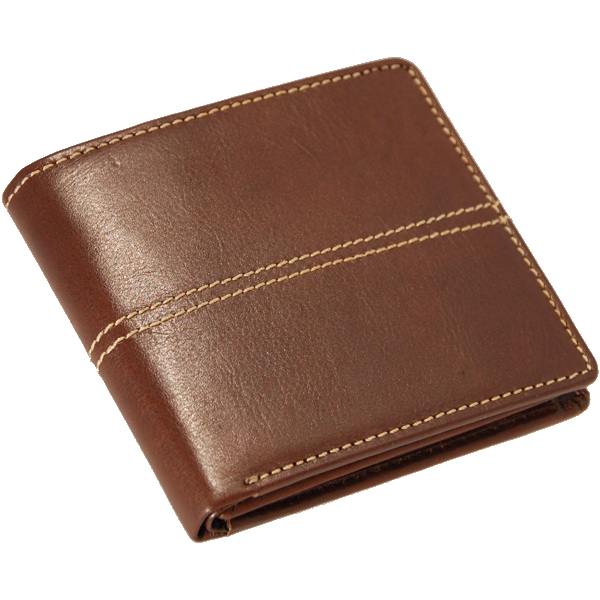
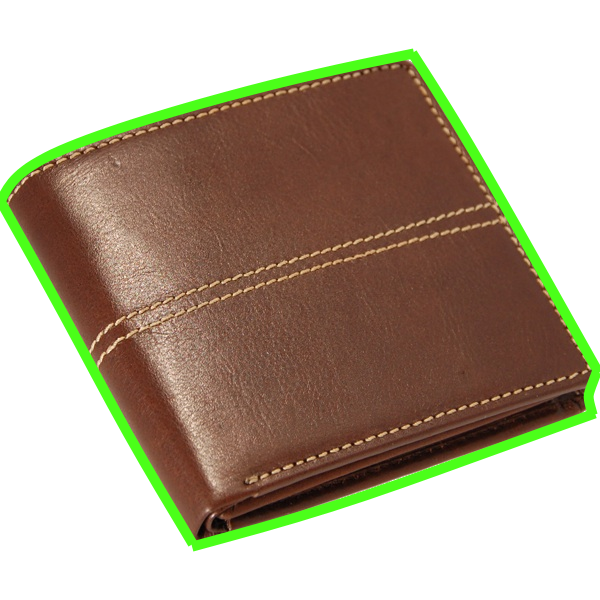
Latest Version (FULLY WORKING)
Collab edit version update with updated wallet.png and lamborghini is
purchasable

Changed region(s): [[0.0, 0.06, 1.0, 0.93]]

diff --git a/Vending.html b/Vending.html
@@ -63,6 +63,10 @@
     h1 {
         color:lime;
 }
+    span {
+        color:lime;
+        font-size: 2%;
+}
     </style>
     <head>
        <meta charset="utf-8"/>
@@ -81,6 +85,11 @@
              stock[2] = 8;
              //solo stock
              stock[3] = 8;
+             //doritos stock
+             stock[4] = 8;
+             //Lambo stock
+             stock[5] = 1;
+             
              
 //Sold
              var sold = new Array();
@@ -92,6 +101,10 @@
              sold[2] = 0;
              //Solo
              sold[3] = 0;
+             //Doritos
+             sold[4] = 0;
+             //Lambo
+             sold[5] = 0;
 //coins 5c - $2
              var coins = new Array(6);
              coins[0] = 0.05;
@@ -148,14 +161,15 @@
                 stock[1] = 8;
                 stock[2] = 8;
                 stock[3] = 8;
-                
-                document.getElementById("purchconf").innerHTML = "Coke left: " +stock[0] + "<br> Pepsi left: " + stock[1] + "<br> Fanta left: " + stock[2] + "<br> Solo left: " + stock[3];
+                stock[4] = 8;
+                stock[5] = 1;
+                document.getElementById("purchconf").innerHTML = "Coke left: " +stock[0] + "<br> Pepsi left: " + stock[1] + "<br> Fanta left: " + stock[2] + "<br> Solo left: " + stock[3] + "<br> Doritos left: " + stock [4] + "<br> Lambos left: " + stock[5];
             }
             function Admin(x) {
                 if(x.pass.value == "pass"){
                     document.getElementById("money").innerHTML = "Welcome Admin!";
-                    document.getElementById("sold").innerHTML = "Amount of Cokes sold since last stock: " + sold[0] + "<br>Amount of Pepsi sold since last stock: " + sold[1] + "<br>Amount of Fanta sold since last stock: " + sold[2] + "<br>Amount of Solo sold since last stock: " + sold[3];
-                    document.getElementById("purchconf").innerHTML = "Coke left: " +stock[0] + "<br> Pepsi left: " + stock[1] + "<br> Fanta left: " + stock[2] + "<br> Solo left: " + stock[3];
+                    document.getElementById("sold").innerHTML = "Amount of Cokes sold since last stock: " + sold[0] + "<br>Amount of Pepsi sold since last stock: " + sold[1] + "<br>Amount of Fanta sold since last stock: " + sold[2] + "<br>Amount of Solo sold since last stock: " + sold[3] + "<br>Amount of Doritos sold since last stock: " + sold[4] + "<br>Amount of Lamborghinis sold since last stock: " + sold[5];
+                    document.getElementById("purchconf").innerHTML = "Coke left: " +stock[0] + "<br> Pepsi left: " + stock[1] + "<br> Fanta left: " + stock[2] + "<br> Solo left: " + stock[3] + "<br> Doritos left: " + stock[4] + "<br> Lambos left: " + stock[5]; 
                    document.getElementById("npurch").innerHTML = "<button onClick='readrst()'>Return</button><button onClick='refill()'>Fill Stock</button>";
                     document.getElementById("admin").reset();
                 }
@@ -284,6 +298,58 @@
                         document.getElementById("purchconf").innerHTML = "Our stock of Solo is actually out at the moment, contact the admin to get more stock in."
                     }
              }
+             function pay_doritos(){
+                if(stock[4] > 0){
+                    if(wallet>3.60){
+                        var r = confirm("Confirming payment of $3.60")
+                            if (r == true) {
+                                 document.getElementById("purchconf").innerHTML= "Thank you for your purchase!";
+                                    var tempvar = wallet -= 3.60;
+                                    wallet = wallet.toFixed(2);
+                              walletempvar = tempvar.toFixed(2);
+                                    sold[4] += 1;
+                                    stock[4] -= 1;
+                //add chip packet sound
+                                }
+                                else{
+                                    document.getElementById("purchconf").innerHTML= "Changed your mind? No worries, perhaps another item?";
+                                } 
+                            document.getElementById("money").innerHTML = "Balance: $" + wallet
+                        }
+                        else{
+                            document.getElementById("purchconf").innerHTML= "You haven't got the balance to make that purchase my friend...";
+                        }
+                    }
+                    else{
+                        document.getElementById("purchconf").innerHTML = "Our stock of Doritos is actually out at the moment, contact the admin to get more stock in."
+                    }
+             }
+              function pay_lamborghini(){
+                if(stock[5] > 0){
+                    if(wallet>999.99){
+                        var r = confirm("Confirming payment of $1000")
+                            if (r == true) {
+                                 document.getElementById("purchconf").innerHTML= "Thank you for your purchase!";
+                                    var tempvar = wallet -= 1000.00;
+                                    wallet = wallet.toFixed(2);
+                              walletempvar = tempvar.toFixed(2);
+                                    sold[5] += 1;
+                                    stock[5] -= 1;
+                //add lambo sound
+                                }
+                                else{
+                                    document.getElementById("purchconf").innerHTML= "Changed your mind? No worries, perhaps another item?";
+                                } 
+                            document.getElementById("money").innerHTML = "Balance: $" + wallet
+                        }
+                        else{
+                            document.getElementById("purchconf").innerHTML= "You haven't got the balance to make that purchase my friend...";
+                        }
+                    }
+                    else{
+                        document.getElementById("purchconf").innerHTML = "Our stock of Lamborghinis are actually out at the moment, contact the admin to get more stock in."
+                    }
+            }
          </script>
     </head>
     <h1>Team Vending Machine</h1>
@@ -308,8 +374,8 @@
         </div>
          <table style="width:100%">
            <tr>
-               <td><img src="Coke.png" alt="coke" style="width:100px;height:250px;" onClick="pay_coke()"></td>
-               <td><img src="Fanta.png" alt="fanta" style="width:100px;height:250px;" onClick="pay_fanta()"></td>        
+               <td><p>$4.45</p><img src="Coke.png" alt="coke" style="width:50px;height:125px;" onClick="pay_coke()"></td>
+               <td><p>$4.25</p><img src="Fanta.png" alt="fanta" style="width:50px;height:125px;" onClick="pay_fanta()"></td>        
                <td>
                   <p id="money"></p>
                   <p id="sold"></p>
@@ -319,8 +385,8 @@
                </td>
            </tr>
            <tr>
-               <td><img src="Pepsi.png" alt="pepsi" style="width:100px;height:250px;"onClick="pay_pepsi()"></td>
-               <td><img src="Solo.png" alt="solo" style="width:100px;height:250px;"onClick="pay_solo()"></td>       
+               <td><p>$4.95</p><img src="Pepsi.png" alt="pepsi" style="width:50px;height:125px;"onClick="pay_pepsi()"></td>
+               <td><p>$4.15</p><img src="Solo.png" alt="solo" style="width:50px;height:125px;"onClick="pay_solo()"></td>       
                <td>
                  <form>
                     <input type="button" value="Change" onClick="change()">
@@ -328,8 +394,8 @@
                </td>
            </tr>
            <tr>
-               <td></td>
-               <td></td>       
+               <td><p>$3.60</p><img src="Doritos.png" alt="doritos" style="width:87.5px;height:125px;"onClick="pay_doritos()"></td>
+               <td><p>$1000</p><img src="lamborghini.jpg" alt="lamborghini" style="width:150px;height:87.5px;"onClick="pay_lamborghini()"></td>       
                <td>
                   <form id=admin>
                     <p>Password:<input type="password" name="pass"></p>
@@ -341,8 +407,7 @@
 
                         <center>
 
-                            <span style="font-size:30px;cursor:pointer" onclick="openNav()">Wallet</span>
-                                <p>
+                            <span style="font-size:30px;cursor:pointer" onclick="openNav()"><img src="Wallet.png" alt="Wallet" style="width:150px;height:125px;"></span>
                         </center>
     </body>
 </html>
